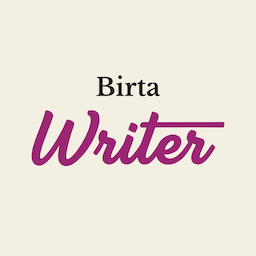
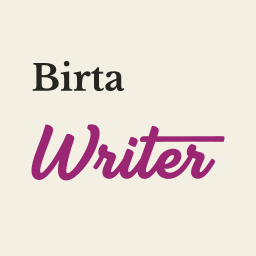
chore: refresh the brand marks from their source (#277)
The Birta Writer wordmark has been redrawn since #271 gave the extension
an icon: heavier, larger in the square, legible at the size the Extensions
view actually draws the tile.

Vendor the marks into media/ rather than reaching across repositories for
them. Packaging must not depend on a private checkout being present, and
the marks are stable enough that a copy is the cheaper risk.

media/icon.png is generated from media/birta-writer-logo-light.svg; the
recipe is in AGENTS.md. It stays a PNG because vsce rejects an SVG icon
outright, and the SVG sources are excluded from the VSIX, where nothing
could reach them.

Changed region(s): [[0.0938, 0.4062, 0.875, 0.7188], [0.125, 0.2188, 0.625, 0.375]]

diff --git a/AGENTS.md b/AGENTS.md
@@ -22,6 +22,19 @@ Adding, removing, or bumping a dependency carries two obligations beyond the loc
 1. Regenerate the attribution appendix with `pnpm notices`. The script name is `notices`, not `licenses`: `pnpm licenses` is a pnpm builtin, and a script by that name is silently shadowed. We ship a bundle (`vsce package --no-dependencies`), so every dependency is inlined into `dist/` and minification strips the license headers that would otherwise carry its notice. `licenses/THIRD_PARTY_LICENSES.md` is where MIT, ISC, and BSD attribution and Apache-2.0 section 4 are actually discharged. It is generated from the esbuild metafiles (what the bundles inline), not from the dependency tree, so it never claims we ship tree-shaken code. CI's `perf-bundle` job fails if it is stale, and `shared/__tests__/thirdPartyNotices.test.ts` fails if a direct dependency is unattributed or an upstream package changes its license out from under a recorded election.
 2. Keep `@types/vscode` pinned to `engines.vscode`'s floor: the types exactly, the engine as `^`. A caret on the types resolves to the newest 1.x, which lets the compiler bless APIs that do not exist in the oldest VS Code we claim to support. Nothing else checks that compatibility claim.
 
+### Brand assets
+
+`media/` holds the Birta Writer marks. They are drawn in a private repository, which stays the source of truth, and a refresh starts by copying from it. The copies here are deliberate rather than a reference: packaging must not depend on a private checkout being present.
+
+`media/icon.png` is the extension and Marketplace icon, generated from `media/birta-writer-logo-light.svg` at 256 square:
+
+```bash
+rsvg-convert -w 256 -h 256 media/birta-writer-logo-light.svg -o /tmp/icon-raw.png
+magick /tmp/icon-raw.png -background '#f3efe3' -alpha remove -alpha off -strip PNG24:media/icon.png
+```
+
+It has to be a PNG, and so does every image in `README.md`. `vsce` rejects an SVG icon (`SVGs can't be used as icons`) and rejects an SVG image in the readme unless it comes from a host on its own trust list, so pointing either at an SVG fails `pnpm run package` rather than degrading. The flatten is what keeps the tile opaque: the mark's ground is its own paper, not the surface behind it.
+
 ### Git commit convention
 
 Keep the English type prefix (`feat:`, `fix:`, `refactor:`, `chore:`, `docs:`, `test:`, `release:`) and write the description in English: `feat: add image upload`, `fix: correct table drag offset`.

diff --git a/CHANGELOG.md b/CHANGELOG.md
@@ -4,6 +4,10 @@
 
 ## [Unreleased]
 
+### Changed
+
+- The extension icon is the current Birta Writer wordmark. The Extensions view and the Marketplace listing were showing an earlier drawing of it, set lighter and smaller in the tile; the mark is heavier and fills more of the square, so it stays legible at the size the tile is actually drawn.
+
 ### Fixed
 
 - The bullet character you type is now honored wherever you type it. Typing `* ` on the line below a `-` list used to continue that list and silently drop the character, even though those same two lines read from a file are two separate lists; it now starts a second list spelled `*`. The ordered delimiter follows the same rule, so `2) ` below a `1.` list keeps its `)`. Typing the character the list above already uses still continues that list, as it did before. Two related cases come with it, because the rule is about the character rather than about typing: deleting the paragraph between a `-` list and a `*` list used to merge them and drop the `*`, and pasting a `*` list directly below a `-` list did the same. Both now keep the two lists. Merging two differently spelled lists is still offered, in the block menu and as a quiet prompt at the cursor, so what changed is that it is no longer done for you unasked.
